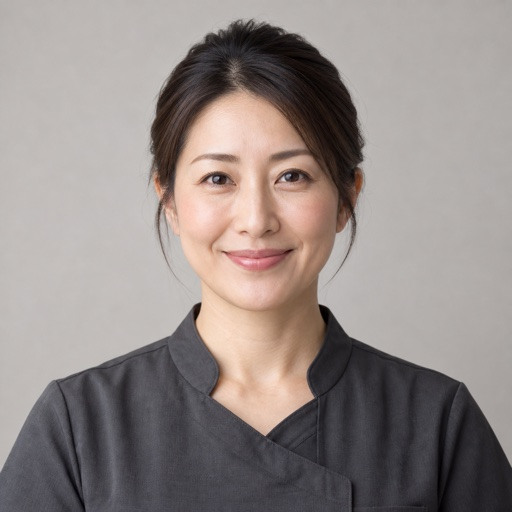
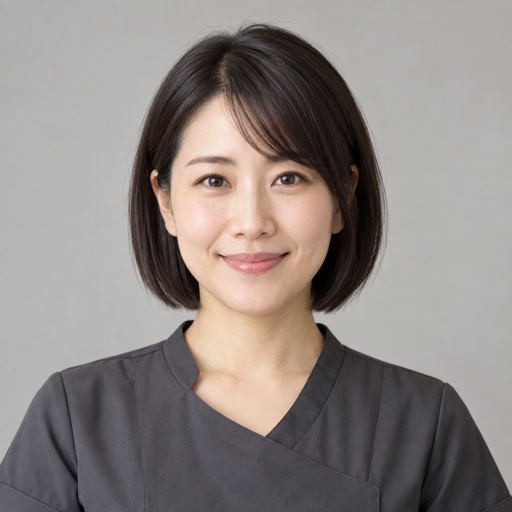
写真変更

diff --git a/massage-booking/lib/therapist-photo.ts b/massage-booking/lib/therapist-photo.ts
@@ -4,8 +4,22 @@
 // **実在の人のアカウントには、別人の写真を割り当てない。** 名前と顔が食い違うと
 // 利用者は「この人に頼む」判断を間違える。写真が無い人は頭文字のアイコンで表示する。
 
-/** 写真がある施術者の ID。ファイルは `public/therapists/<ID>.jpg` に置く */
-const THERAPIST_PHOTO_IDS = new Set(["t1", "t2", "t3"]);
+/**
+ * 写真がある施術者の ID。ファイルは `public/therapists/<ID>.jpg` に置く。
+ *
+ * 元画像（`app/therapist/images/image (N).png`）との対応と、性別を合わせてある。
+ * 紹介画面と予約画面の絞り込みは「女性／男性」で分かれるので、顔と性別がずれると利用者が混乱する。
+ *
+ * | ID | 施術者 | 性別 | 元画像 |
+ * |----|--------|------|--------|
+ * | t1 | 施術者 A | 女性 | image (4) |
+ * | t2 | 施術者 B | 男性 | image (1) |
+ * | t3 | 施術者 C | 男性 | image (2) |
+ * | t4 | 施術者 D | 男性 | image (5) |
+ *
+ * image (3)（女性）は予備。女性の施術者が増えたときに使う。
+ */
+const THERAPIST_PHOTO_IDS = new Set(["t1", "t2", "t3", "t4"]);
 
 /** 顔写真の URL。無ければ null（呼び出し側で頭文字のアイコンに切り替える） */
 export function therapistPhotoUrl(therapistId: string): string | null {

diff --git a/docs/intern/tasks.md b/docs/intern/tasks.md
@@ -1922,3 +1922,60 @@ $ npm run build      → 成功（/booking /therapists とも生成）
 
 学生に確認してほしいこと: 紹介画面のボタンを押した先で、**その人だけにチェックが入った状態**で
 週の表が出ているか。他の人の枠が混ざっていないか。
+
+---
+
+## 追加（2026-09-11 その13）: マッサージ師の顔写真を割り当て（実在アカウントには割り当てない）
+
+紹介画面（`/therapists`）の顔写真は、これまで `picsum.photos` のランダム画像だった
+（人の顔ですらない画像が出ることがあった）。学生から施術者のポートレート画像 5 枚を受け取ったので、
+サンプルデータの施術者に割り当てた。
+
+### 割り当て
+
+| 施術者 ID | 名前 | 性別 | 元画像 | 表示 |
+|---|---|---|---|---|
+| t1 | 施術者 A | 女性 | `image (4)` | 写真 |
+| t2 | 施術者 B | 男性 | `image (1)` | 写真 |
+| t3 | 施術者 C | 男性 | `image (2)` | 写真 |
+| t4 | 施術者 D | 男性 | `image (5)` | 写真 |
+| cmtwiiqd9... | shun | 男性 | — | **頭文字アイコン（S）** |
+
+**shun には写真を割り当てない。** 学生の指示によるもので、理由も妥当:
+shun は管理画面から登録された実在の人のアカウントで、別人の顔写真を出すと
+「この人に頼む」という利用者の判断が名前と顔で食い違う。
+`image (3)`（女性）は予備。女性の施術者が増えたときに使う。
+
+写真と性別は合わせてある。紹介画面と予約画面の絞り込みは「女性／男性」で分かれるため、
+顔と性別がずれると利用者が混乱する。
+
+### 変更
+
+| ファイル | 変更 |
+|---|---|
+| `public/therapists/t1〜t4.jpg`（新規） | 512px / JPEG に変換して配置（元は 1254px・約 2MB の PNG） |
+| `lib/therapist-photo.ts`（新規） | 施術者 ID → 写真 URL の対応と、写真が無い人の頭文字を返す |
+| `app/therapists/page.tsx` | `picsum.photos` をやめ、写真が無い人は頭文字の丸アイコンにする |
+
+補足:
+
+- 画像は `app/therapist/images/` に置かれていたが、`app/` の下は静的配信されないため
+  `public/therapists/` へ移した（変換して配置。元の PNG はそのまま残してある）。
+- 表示は 112px の丸アイコンなので、2MB の PNG は過剰。512px の JPEG（約 50KB）に落とした。
+  さらに `next/image` が表示サイズに合わせて縮小するため、実際に配信されるのは 1 枚あたり約 5KB。
+- トップ画面（`app/page.tsx`）のヒーロー画像は施術者の写真ではないため、`picsum.photos` のまま。
+  `next.config.ts` の `remotePatterns` もこのために残している。
+
+### 確認
+
+```
+$ npx tsc --noEmit   → エラー 0
+$ npx eslint ...     → エラー 0
+
+/therapists（シードの利用者のセッションで取得）
+  → t1.jpg / t2.jpg / t3.jpg / t4.jpg が 4 名分すべて出る
+  → shun は写真ではなく頭文字「S」
+  → /_next/image で 256px に最適化した配信は 4 枚とも 200・約 5KB
+```
+
+学生に確認してほしいこと: 紹介画面で 4 名に顔写真が出て、shun だけ「S」のアイコンになっているか。
